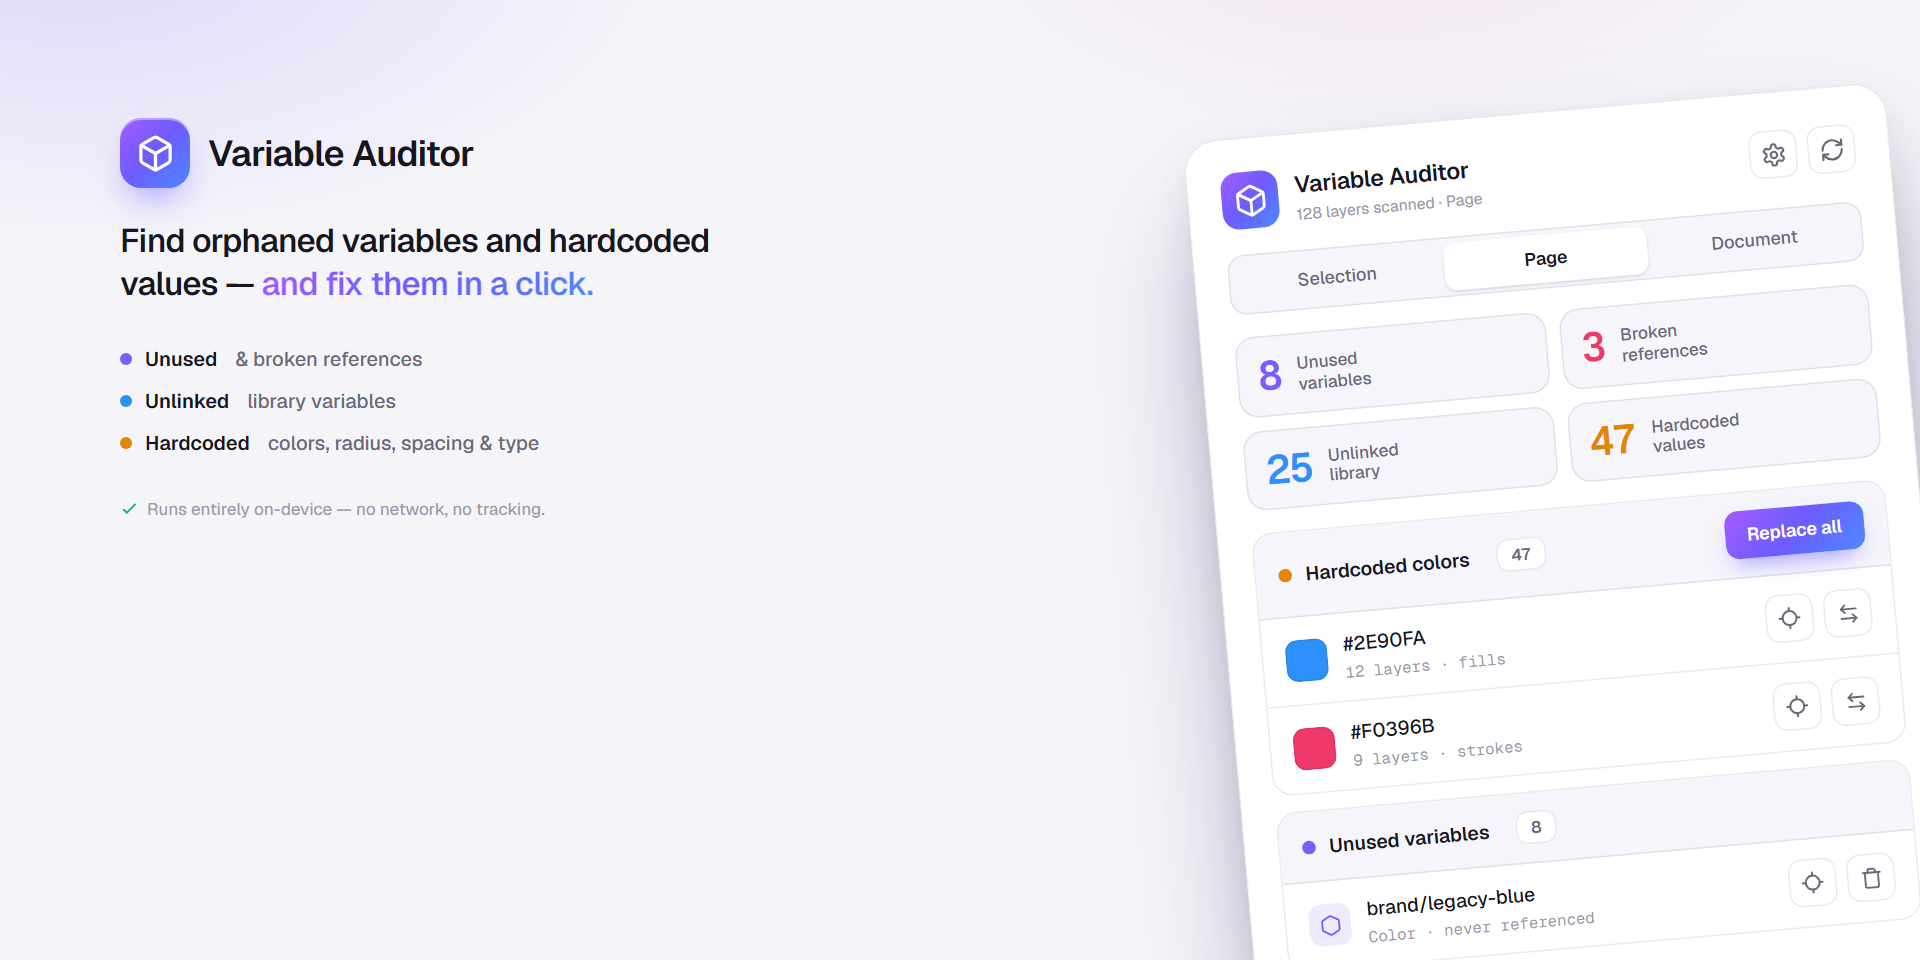
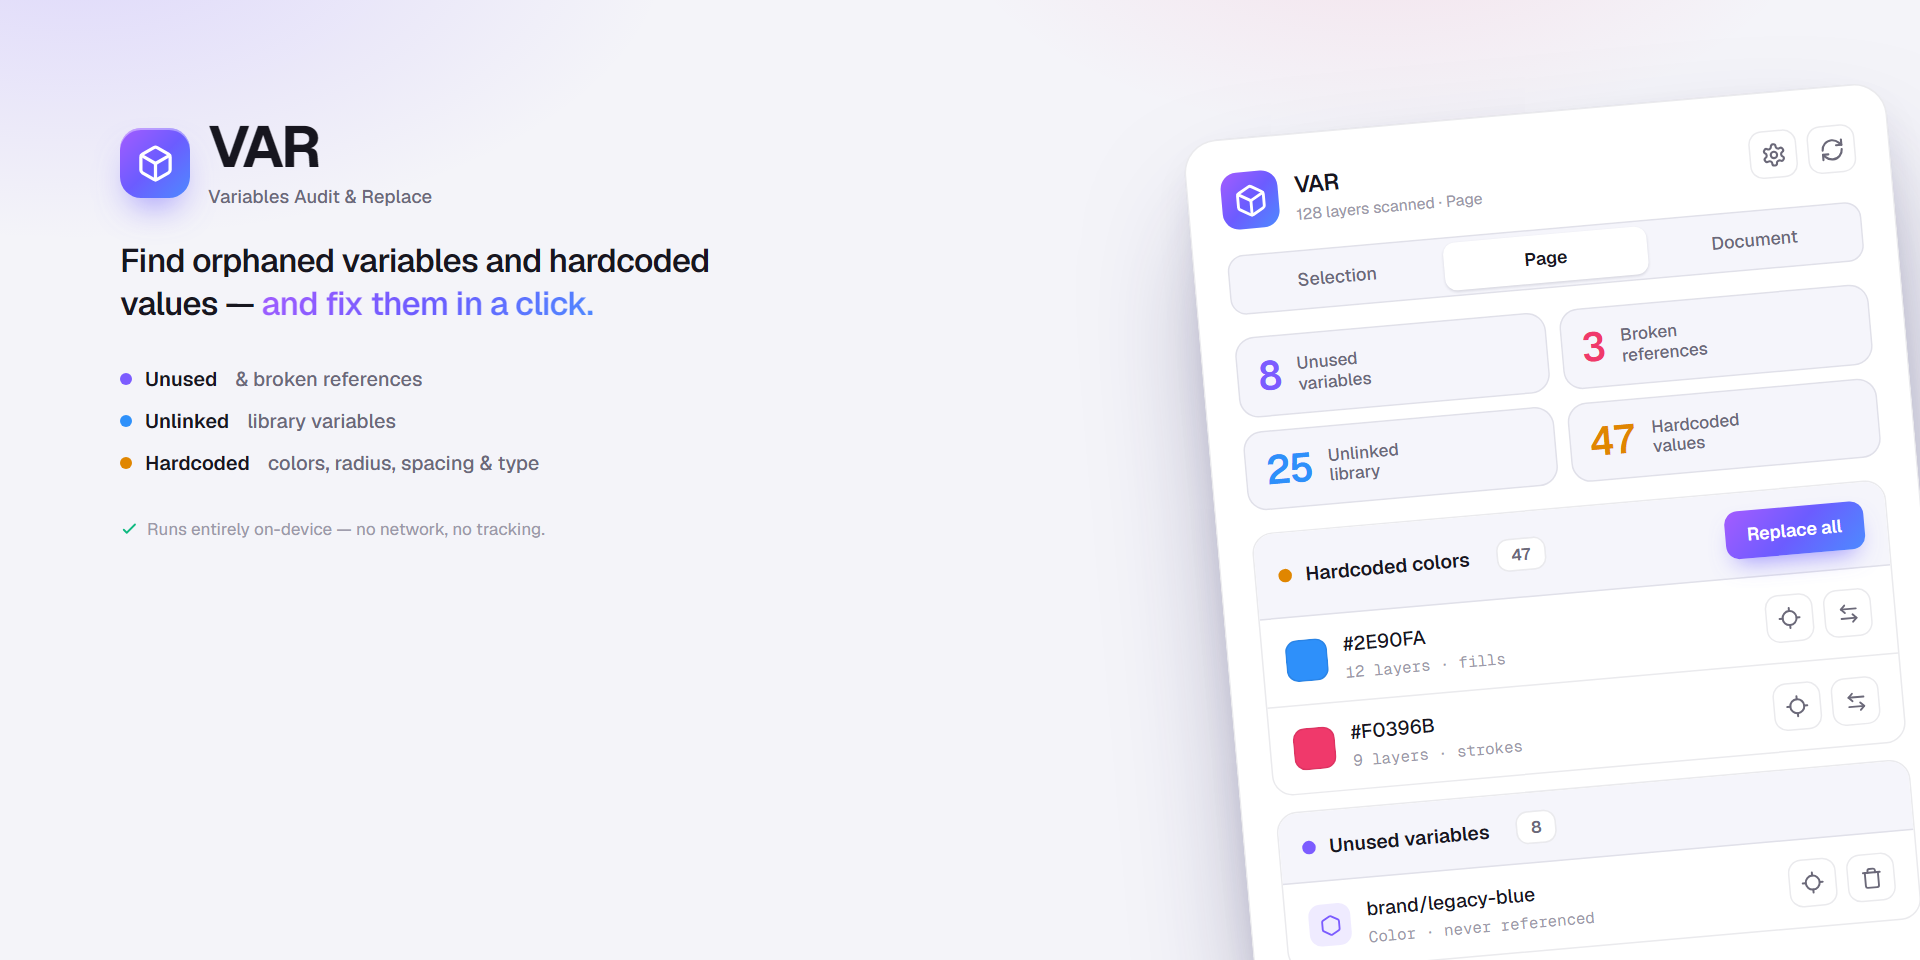
refactor(variable-auditor): rename plugin to "VAR — Variables Audit & Replace"
"Variable Auditor" collided with an existing Community plugin (Local Variable
Auditor) in a crowded "Variable*" category. Rebrand to the distinctive short
mark "VAR", expanded as "Variables Audit & Replace":

- manifest name → "VAR — Variables Audit & Replace" (the Community listing name)
- in-plugin header wordmark → "VAR" / "Variables Audit & Replace"
- cover re-rendered with "VAR" as the hero wordmark + descriptor
- README + LISTING.md copy updated

Folder (variable-auditor/), manifest dev id, and clientStorage keys are internal
and unchanged — only user-facing names moved. Icon is textless, unchanged.

Changed region(s): [[0.0625, 0.125, 0.375, 0.5], [0.0625, 0.5312, 0.2812, 0.5625], [0.6875, 0.1562, 0.7812, 0.2188]]

diff --git a/variable-auditor/community/cover.src.html b/variable-auditor/community/cover.src.html
@@ -28,7 +28,8 @@
   .mark{width:70px;height:70px;border-radius:21px;background:var(--grad);display:flex;align-items:center;justify-content:center;
     box-shadow:0 18px 36px -14px rgba(108,92,255,.75), 0 2px 0 rgba(255,255,255,.4) inset;}
   .mark svg{color:#fff;}
-  .brand .name{font-size:36px;font-weight:600;letter-spacing:-.02em;}
+  .brand .name{font-size:58px;font-weight:700;letter-spacing:-.03em;line-height:1;}
+  .brand .descriptor{font-size:18.5px;font-weight:500;color:var(--text-2);letter-spacing:.005em;margin-top:8px;}
   .tag{font-size:33px;line-height:1.3;font-weight:560;letter-spacing:-.022em;color:var(--text);max-width:620px;}
   .tag .g{background:var(--grad);-webkit-background-clip:text;background-clip:text;color:transparent;}
   .checks{margin-top:40px;display:flex;flex-direction:column;gap:16px;}
@@ -79,7 +80,10 @@
 <div class="brand">
   <div class="brow">
     <div class="mark"><svg width="39" height="39" viewBox="0 0 24 24" fill="none" stroke="currentColor" stroke-width="2" stroke-linejoin="round" stroke-linecap="round"><path d="M21 16V8a2 2 0 0 0-1-1.73l-7-4a2 2 0 0 0-2 0l-7 4A2 2 0 0 0 3 8v8a2 2 0 0 0 1 1.73l7 4a2 2 0 0 0 2 0l7-4A2 2 0 0 0 21 16z"/><path d="M3.3 7 12 12l8.7-5"/><path d="M12 22V12"/></svg></div>
-    <div class="name">Variable Auditor</div>
+    <div>
+      <div class="name">VAR</div>
+      <div class="descriptor">Variables Audit &amp; Replace</div>
+    </div>
   </div>
   <div class="tag">Find orphaned variables and hardcoded values &mdash; <span class="g">and fix them in a click.</span></div>
   <div class="checks">
@@ -94,7 +98,7 @@
   <div class="panel">
     <div class="p-head">
       <div class="p-logo"><svg width="23" height="23" viewBox="0 0 24 24" fill="none" stroke="currentColor" stroke-width="2" stroke-linejoin="round" stroke-linecap="round"><path d="M21 16V8a2 2 0 0 0-1-1.73l-7-4a2 2 0 0 0-2 0l-7 4A2 2 0 0 0 3 8v8a2 2 0 0 0 1 1.73l7 4a2 2 0 0 0 2 0l7-4A2 2 0 0 0 21 16z"/><path d="M3.3 7 12 12l8.7-5"/><path d="M12 22V12"/></svg></div>
-      <div class="p-title">Variable Auditor<small>128 layers scanned &middot; Page</small></div>
+      <div class="p-title">VAR<small>128 layers scanned &middot; Page</small></div>
       <div class="p-tools">
         <i><svg width="17" height="17" viewBox="0 0 24 24" fill="none" stroke="currentColor" stroke-width="2" stroke-linecap="round" stroke-linejoin="round"><path d="M12.22 2h-.44a2 2 0 0 0-2 2v.18a2 2 0 0 1-1 1.73l-.43.25a2 2 0 0 1-2 0l-.15-.08a2 2 0 0 0-2.73.73l-.22.38a2 2 0 0 0 .73 2.73l.15.1a2 2 0 0 1 1 1.72v.51a2 2 0 0 1-1 1.74l-.15.09a2 2 0 0 0-.73 2.73l.22.38a2 2 0 0 0 2.73.73l.15-.08a2 2 0 0 1 2 0l.43.25a2 2 0 0 1 1 1.73V20a2 2 0 0 0 2 2h.44a2 2 0 0 0 2-2v-.18a2 2 0 0 1 1-1.73l.43-.25a2 2 0 0 1 2 0l.15.08a2 2 0 0 0 2.73-.73l.22-.39a2 2 0 0 0-.73-2.73l-.15-.08a2 2 0 0 1-1-1.74v-.5a2 2 0 0 1 1-1.74l.15-.09a2 2 0 0 0 .73-2.73l-.22-.38a2 2 0 0 0-2.73-.73l-.15.08a2 2 0 0 1-2 0l-.43-.25a2 2 0 0 1-1-1.73V4a2 2 0 0 0-2-2z"/><circle cx="12" cy="12" r="3"/></svg></i>
         <i><svg width="17" height="17" viewBox="0 0 24 24" fill="none" stroke="currentColor" stroke-width="2" stroke-linecap="round" stroke-linejoin="round"><path d="M3 12a9 9 0 0 1 9-9 9.75 9.75 0 0 1 6.74 2.74L21 8"/><path d="M21 3v5h-5"/><path d="M21 12a9 9 0 0 1-9 9 9.75 9.75 0 0 1-6.74-2.74L3 16"/><path d="M8 16H3v5"/></svg></i>

diff --git a/variable-auditor/src/ui.html b/variable-auditor/src/ui.html
@@ -229,8 +229,8 @@
           <svg width="20" height="20" viewBox="0 0 24 24" fill="none" stroke="currentColor" stroke-width="2" stroke-linecap="round" stroke-linejoin="round"><path d="M21 16V8a2 2 0 0 0-1-1.73l-7-4a2 2 0 0 0-2 0l-7 4A2 2 0 0 0 3 8v8a2 2 0 0 0 1 1.73l7 4a2 2 0 0 0 2 0l7-4A2 2 0 0 0 21 16z"/></svg>
         </div>
         <div class="htxt">
-          <div class="app-title">Variable Auditor</div>
-          <div class="app-sub">Orphans &amp; hardcoded values</div>
+          <div class="app-title">VAR</div>
+          <div class="app-sub">Variables Audit &amp; Replace</div>
         </div>
         <button class="icon-btn" id="btn-settings" aria-label="Settings">
           <svg width="16" height="16" viewBox="0 0 24 24" fill="none" stroke="currentColor" stroke-width="2" stroke-linecap="round" stroke-linejoin="round"><line x1="21" x2="14" y1="4" y2="4"/><line x1="10" x2="3" y1="4" y2="4"/><line x1="21" x2="12" y1="12" y2="12"/><line x1="8" x2="3" y1="12" y2="12"/><line x1="21" x2="16" y1="20" y2="20"/><line x1="12" x2="3" y1="20" y2="20"/><line x1="14" x2="14" y1="2" y2="6"/><line x1="8" x2="8" y1="10" y2="14"/><line x1="16" x2="16" y1="18" y2="22"/></svg>

diff --git a/variable-auditor/community/LISTING.md b/variable-auditor/community/LISTING.md
@@ -1,4 +1,4 @@
-# Variable Auditor — Community listing kit
+# VAR — Community listing kit
 
 Draft assets & copy for publishing to the Figma Community. Regenerate the PNGs
 from the HTML sources with headless Chrome (see **Regenerating** below).
@@ -15,13 +15,13 @@ from the HTML sources with headless Chrome (see **Regenerating** below).
 
 ## Copy
 
-**Name:** Variable Auditor
+**Name:** VAR — Variables Audit & Replace
 
 **Tagline:** Find orphaned variables and hardcoded values — and fix them in a click.
 
 **Description:**
 
-> Keep your Figma variables clean. Variable Auditor scans a selection, a page,
+> Keep your Figma variables clean. VAR scans a selection, a page,
 > or the whole file and surfaces four kinds of hygiene issues:
 >
 > - **Unused variables** — local variables nothing references

diff --git a/README.md b/README.md
@@ -16,7 +16,7 @@ The frame width adapts to the widest variant so nothing clips or overflows.
 
 ### [`variable-auditor`](./variable-auditor)
 
-Audits variable hygiene in a file. Scans for four categories of issues:
+Published as **VAR — Variables Audit & Replace**. Audits variable hygiene in a file. Scans for four categories of issues:
 
 1. **Unused variables** — variables bound to no layers
 2. **Broken references** — layers bound to a deleted variable